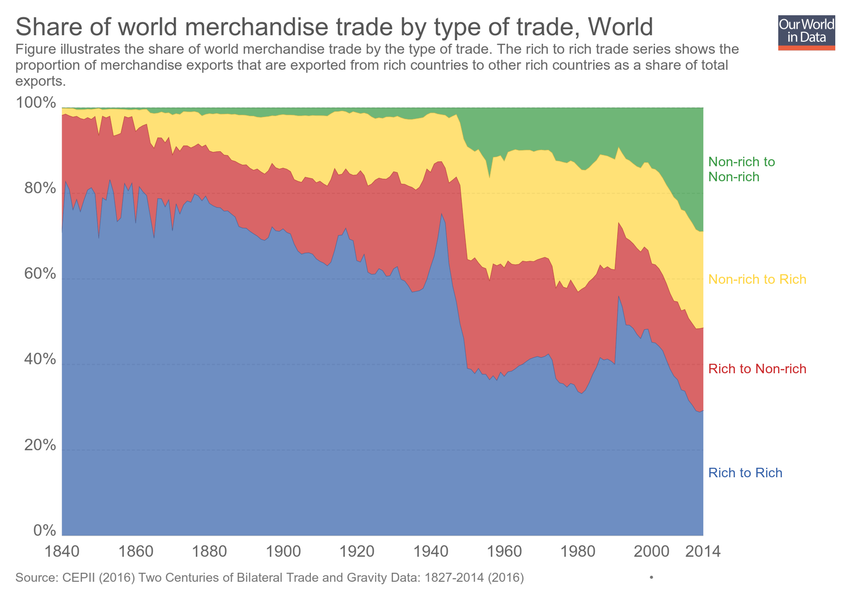
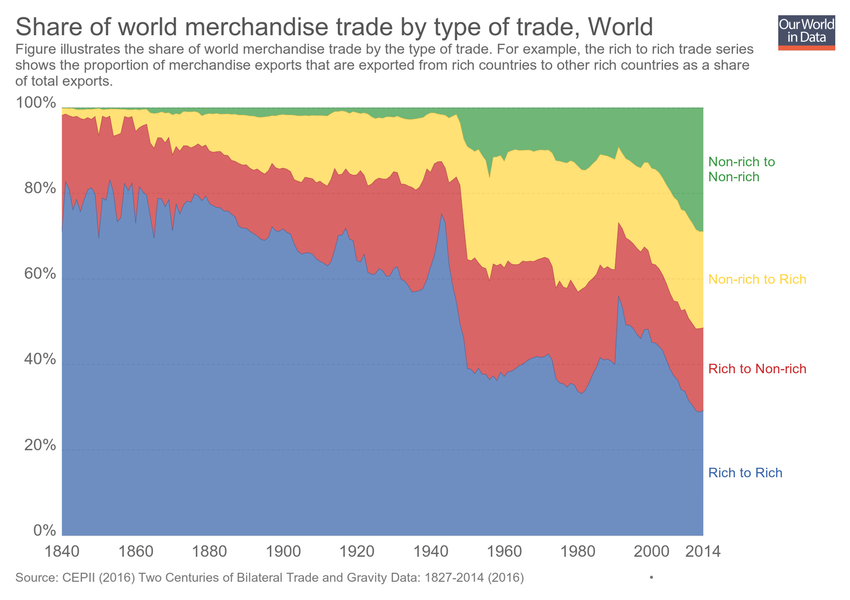
Updating chart share-of-world-merchandise-trade-by-type-of-trade

Changed region(s): [[0.0, 0.06, 0.8871, 0.15]]

diff --git a/grapher/share-of-world-merchandise-trade-by-type-of-trade.html b/grapher/share-of-world-merchandise-trade-by-type-of-trade.html
@@ -1,4 +1,4 @@
-<!doctype html><html><head><meta name="viewport" content="width=device-width, initial-scale=1" /><title>Share of world merchandise trade by type of trade - Our World in Data</title><meta name="description" content="Figure illustrates the share of world merchandise trade by the type of trade. The rich to rich trade series shows the proportion of merchandise exports that are exported from rich countries to other rich countries as a share of total exports." /><link rel="canonical" href="https://ourworldindata.org/grapher/share-of-world-merchandise-trade-by-type-of-trade" /><meta property="fb:app_id" content="1149943818390250" /><meta property="og:url" content="https://ourworldindata.org/grapher/share-of-world-merchandise-trade-by-type-of-trade" /><meta property="og:title" content="Share of world merchandise trade by type of trade" /><meta property="og:description" content="Figure illustrates the share of world merchandise trade by the type of trade. The rich to rich trade series shows the proportion of merchandise exports that are exported from rich countries to other rich countries as a share of total exports." /><meta property="og:image" content="https://ourworldindata.org/grapher/exports/share-of-world-merchandise-trade-by-type-of-trade.png?v=2" /><meta property="og:image:width" content="850" /><meta property="og:image:height" content="600" /><meta property="og:site_name" content="Our World in Data" /><meta name="twitter:card" content="summary_large_image" /><meta name="twitter:site" content="@OurWorldInData" /><meta name="twitter:creator" content="@OurWorldInData" /><meta name="twitter:title" content="Share of world merchandise trade by type of trade" /><meta name="twitter:description" content="Figure illustrates the share of world merchandise trade by the type of trade. The rich to rich trade series shows the proportion of merchandise exports that are exported from rich countries to other rich countries as a share of total exports." /><meta name="twitter:image" content="https://ourworldindata.org/grapher/exports/share-of-world-merchandise-trade-by-type-of-trade.png?v=2" /><style>
+<!doctype html><html><head><meta name="viewport" content="width=device-width, initial-scale=1" /><title>Share of world merchandise trade by type of trade - Our World in Data</title><meta name="description" content="Figure illustrates the share of world merchandise trade by the type of trade. For example, the rich to rich trade series shows the proportion of merchandise exports that are exported from rich countries to other rich countries as a share of total exports." /><link rel="canonical" href="https://ourworldindata.org/grapher/share-of-world-merchandise-trade-by-type-of-trade" /><meta property="fb:app_id" content="1149943818390250" /><meta property="og:url" content="https://ourworldindata.org/grapher/share-of-world-merchandise-trade-by-type-of-trade" /><meta property="og:title" content="Share of world merchandise trade by type of trade" /><meta property="og:description" content="Figure illustrates the share of world merchandise trade by the type of trade. For example, the rich to rich trade series shows the proportion of merchandise exports that are exported from rich countries to other rich countries as a share of total exports." /><meta property="og:image" content="https://ourworldindata.org/grapher/exports/share-of-world-merchandise-trade-by-type-of-trade.png?v=4" /><meta property="og:image:width" content="850" /><meta property="og:image:height" content="600" /><meta property="og:site_name" content="Our World in Data" /><meta name="twitter:card" content="summary_large_image" /><meta name="twitter:site" content="@OurWorldInData" /><meta name="twitter:creator" content="@OurWorldInData" /><meta name="twitter:title" content="Share of world merchandise trade by type of trade" /><meta name="twitter:description" content="Figure illustrates the share of world merchandise trade by the type of trade. For example, the rich to rich trade series shows the proportion of merchandise exports that are exported from rich countries to other rich countries as a share of total exports." /><meta name="twitter:image" content="https://ourworldindata.org/grapher/exports/share-of-world-merchandise-trade-by-type-of-trade.png?v=4" /><style>
         html, body {
             height: 100%;
             margin: 0;
@@ -20,8 +20,8 @@
         }
     </style><noscript><style>
                     figure { display: none !important; }
-                </style></noscript><link rel="stylesheet" href="https://ourworldindata.org/grapher/assets/commons.bundle.dcbbe53805c487d5e57617b10ac73a8a.css" /><link rel="preload" href="/grapher/data/variables/96428+96427+96426+96425.json?v=2" as="fetch" crossorigin /></head><body class="singleChart"><figure data-grapher-src="/grapher/share-of-world-merchandise-trade-by-type-of-trade"></figure><noscript id="fallback"><img src="/grapher/exports/share-of-world-merchandise-trade-by-type-of-trade.svg" /><p>Interactive visualization requires JavaScript</p></noscript><script src="https://cdn.polyfill.io/v2/polyfill.min.js?features=es6,fetch"></script><script src="https://ourworldindata.org/grapher/assets/commons.bundle.0885398ca21a9d555396.js"></script><script src="https://ourworldindata.org/grapher/assets/charts.bundle.0885398ca21a9d555396.js"></script><script>
-        var jsonConfig = {"id":2501,"map":{"projection":"World","colorSchemeLabels":[],"colorSchemeValues":[],"colorSchemeMinValue":0,"customNumericColors":[],"customCategoryColors":{},"customCategoryLabels":{},"customHiddenCategories":{}},"tab":"chart","slug":"share-of-world-merchandise-trade-by-type-of-trade","type":"StackedArea","title":"Share of world merchandise trade by type of trade","xAxis":{"scaleType":"linear"},"yAxis":{"min":0,"scaleType":"linear"},"version":2,"subtitle":"Figure illustrates the share of world merchandise trade by the type of trade. The rich to rich trade series shows the proportion of merchandise exports that are exported from rich countries to other rich countries as a share of total exports.","hasMapTab":false,"stackMode":"relative","dimensions":[{"display":{"name":"Non-rich to Non-rich"},"property":"y","variableId":96428},{"display":{"name":"Non-rich to Rich"},"property":"y","variableId":96427},{"display":{"name":"Rich to Non-rich"},"property":"y","variableId":96426},{"display":{"name":"Rich to Rich"},"property":"y","variableId":96425}],"hasChartTab":true,"isPublished":true,"selectedData":[{"index":0,"entityId":355},{"index":1,"entityId":355},{"index":2,"entityId":355},{"index":3,"entityId":355}],"addCountryMode":"disabled","hideRelativeToggle":true};
+                </style></noscript><link rel="stylesheet" href="https://ourworldindata.org/grapher/assets/commons.bundle.dcbbe53805c487d5e57617b10ac73a8a.css" /><link rel="preload" href="/grapher/data/variables/96428+96427+96426+96425.json?v=4" as="fetch" crossorigin /></head><body class="singleChart"><figure data-grapher-src="/grapher/share-of-world-merchandise-trade-by-type-of-trade"></figure><noscript id="fallback"><img src="/grapher/exports/share-of-world-merchandise-trade-by-type-of-trade.svg" /><p>Interactive visualization requires JavaScript</p></noscript><script src="https://cdn.polyfill.io/v2/polyfill.min.js?features=es6,fetch"></script><script src="https://ourworldindata.org/grapher/assets/commons.bundle.0885398ca21a9d555396.js"></script><script src="https://ourworldindata.org/grapher/assets/charts.bundle.0885398ca21a9d555396.js"></script><script>
+        var jsonConfig = {"id":2501,"map":{"projection":"World","colorSchemeLabels":[],"colorSchemeValues":[],"colorSchemeMinValue":0,"customNumericColors":[],"customCategoryColors":{},"customCategoryLabels":{},"customHiddenCategories":{}},"tab":"chart","slug":"share-of-world-merchandise-trade-by-type-of-trade","type":"StackedArea","title":"Share of world merchandise trade by type of trade","xAxis":{"scaleType":"linear"},"yAxis":{"min":0,"scaleType":"linear"},"version":4,"subtitle":"Figure illustrates the share of world merchandise trade by the type of trade. For example, the rich to rich trade series shows the proportion of merchandise exports that are exported from rich countries to other rich countries as a share of total exports.","hasMapTab":false,"stackMode":"relative","dimensions":[{"display":{"name":"Non-rich to Non-rich"},"property":"y","variableId":96428},{"display":{"name":"Non-rich to Rich"},"property":"y","variableId":96427},{"display":{"name":"Rich to Non-rich"},"property":"y","variableId":96426},{"display":{"name":"Rich to Rich"},"property":"y","variableId":96425}],"hasChartTab":true,"isPublished":true,"selectedData":[{"index":0,"entityId":355},{"index":1,"entityId":355},{"index":2,"entityId":355},{"index":3,"entityId":355}],"addCountryMode":"disabled","hideRelativeToggle":true};
         var figure = document.getElementsByTagName("figure")[0];
         try {
             window.App = {};
